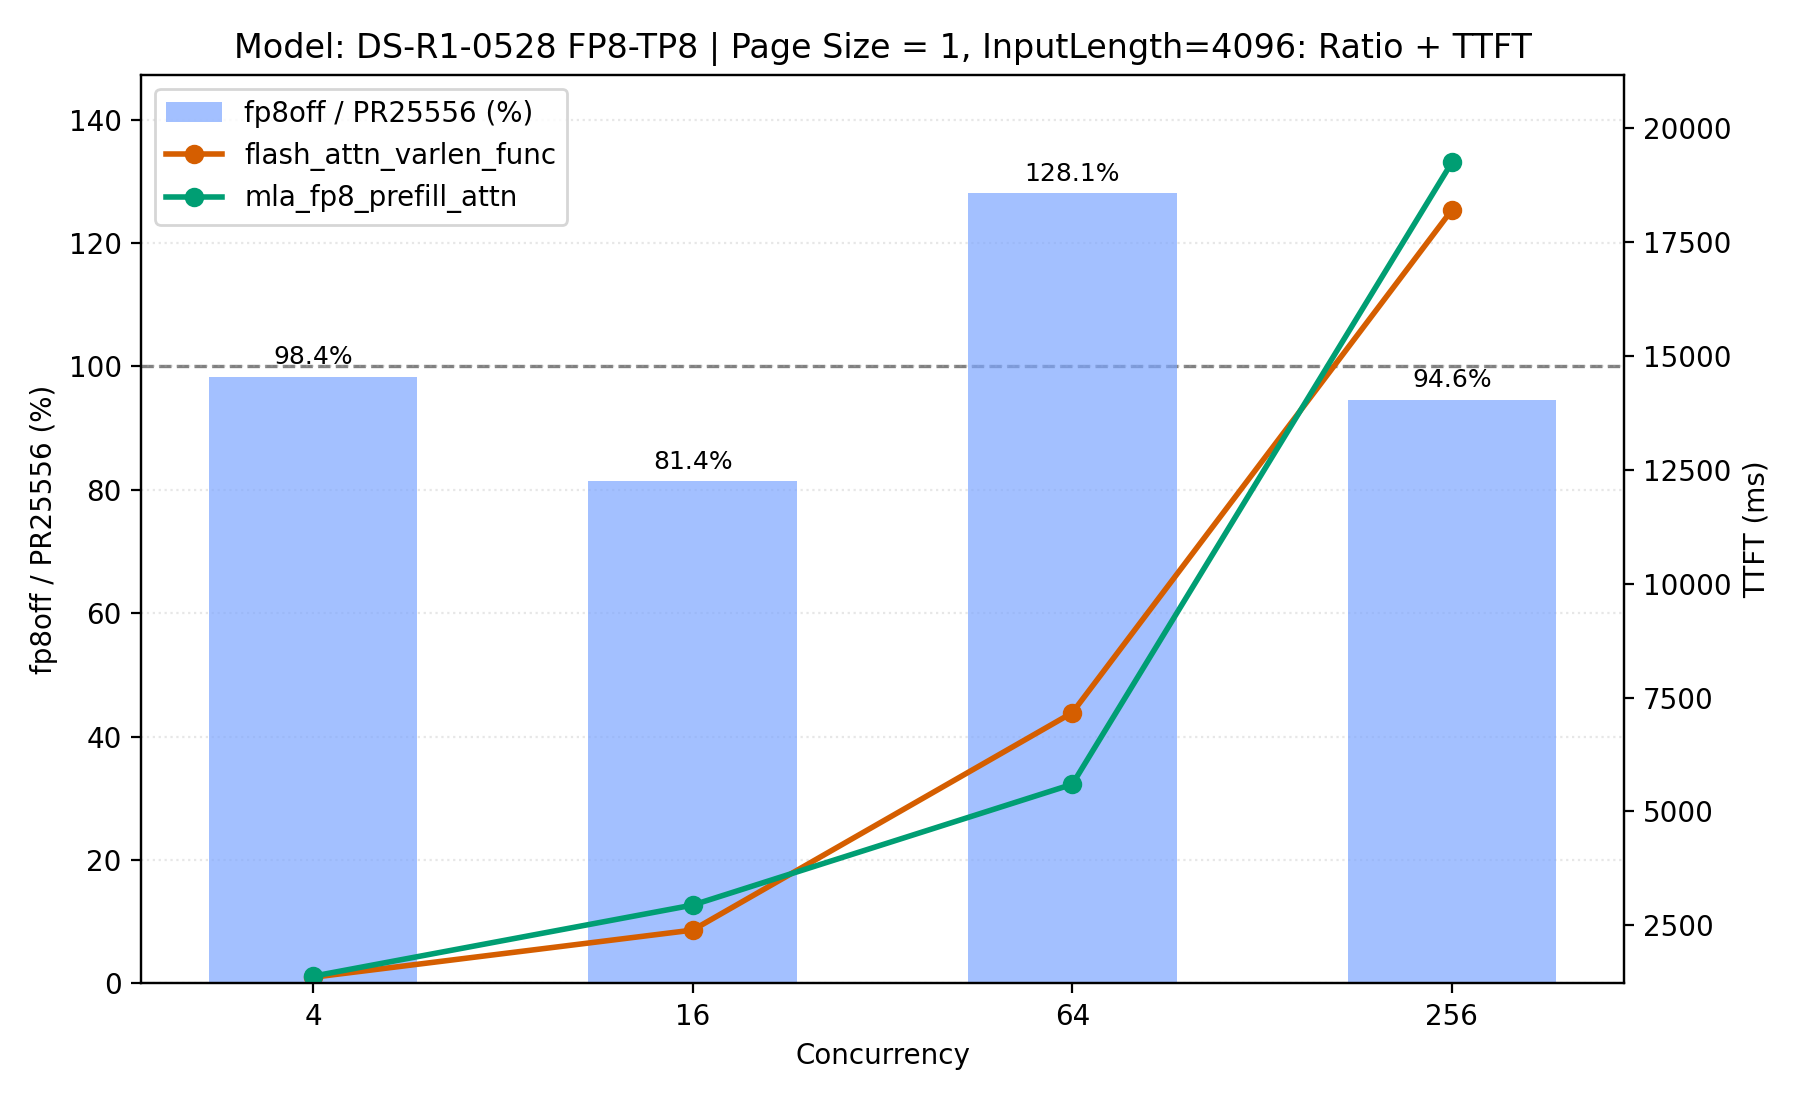
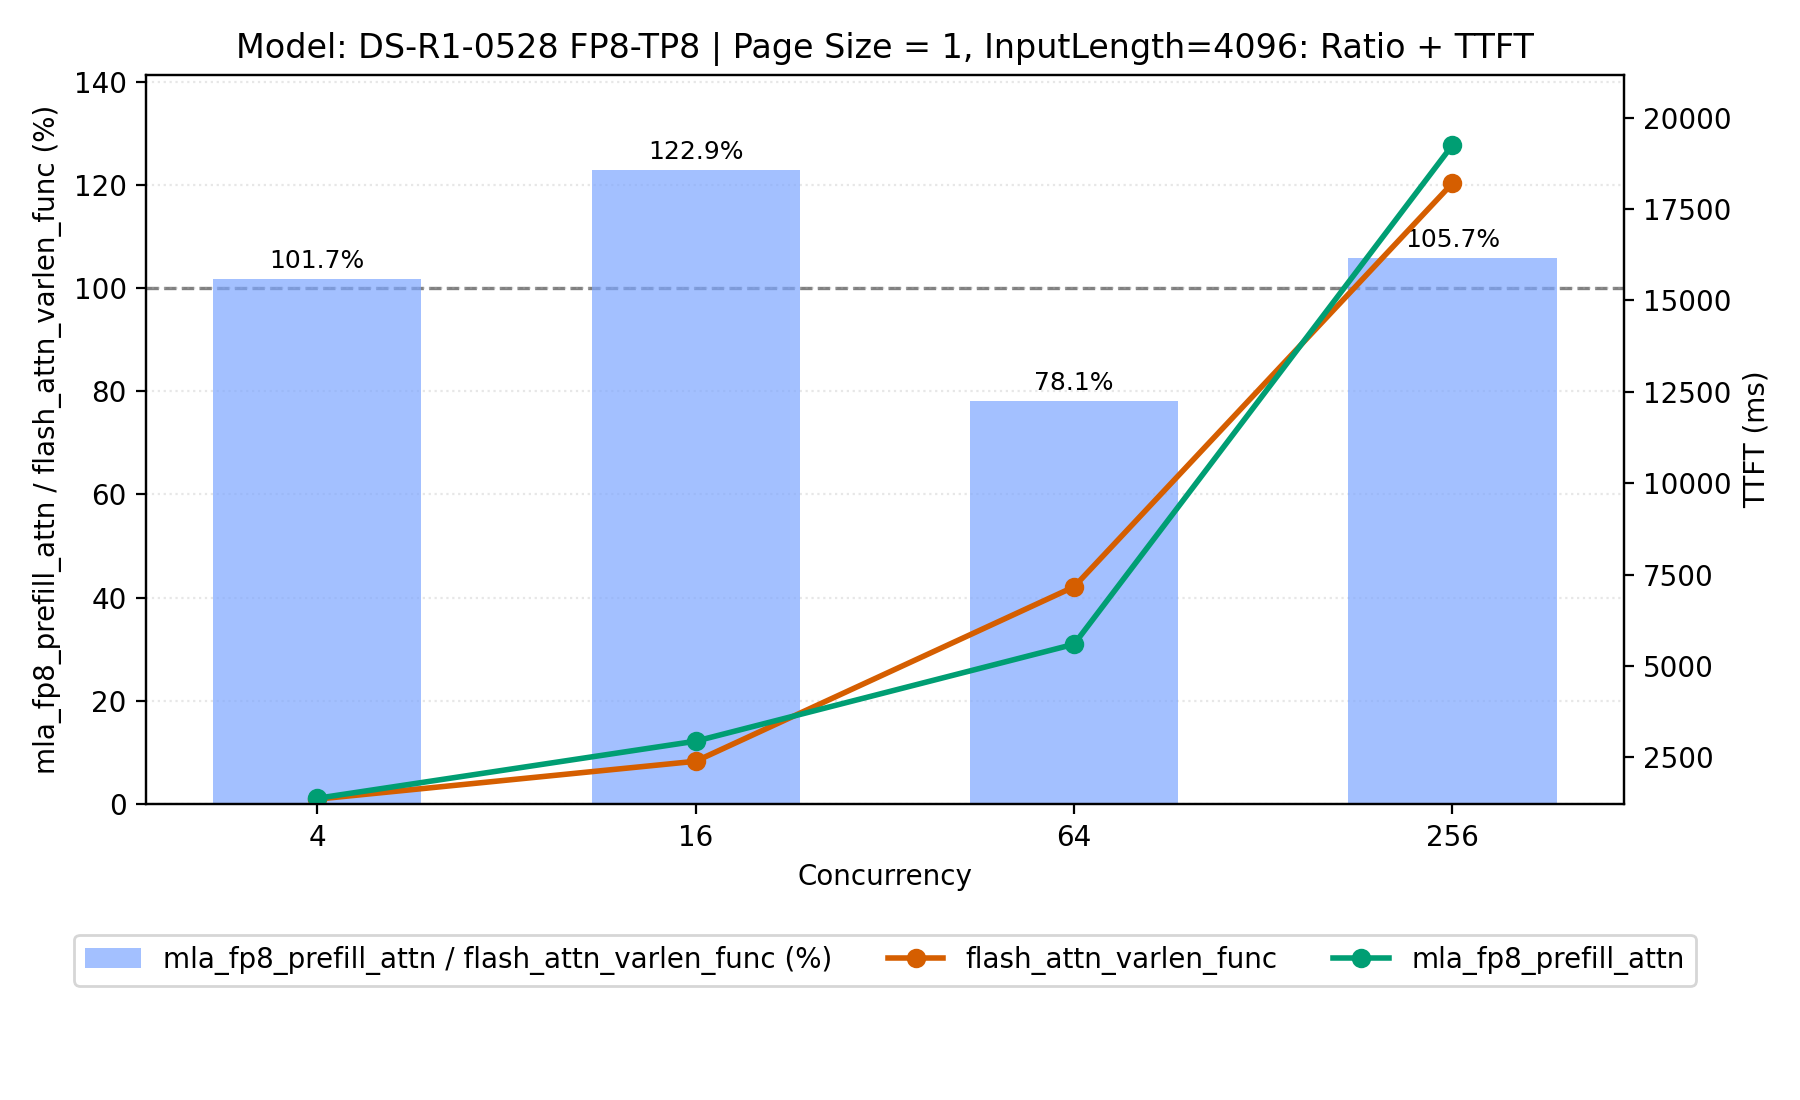
PrefillKernel: align TTFT ratio plot labels.

diff --git a/PrefillKernel/plot_ttft_ratio_dual_axis.py b/PrefillKernel/plot_ttft_ratio_dual_axis.py
@@ -9,6 +9,7 @@ import numpy as np
 
 ROOT = Path("/home/jacchang/SGLang-benchmarks/PrefillKernel")
 DATA_ROOT = Path("/home/jacchang/plots/pagesize_pr25556_matrix_20260521_025634")
+INPUT_LEN = 4096
 CONCS = [4, 16, 64, 256]
 CASES = {
     "page1_fp8off": {"page_size": 1, "method": "SGLANG_AITER_FP8_PREFILL_ATTN=0"},
@@ -22,7 +23,7 @@ def load_ttft_data():
     rows = []
     for case, meta in CASES.items():
         for c in CONCS:
-            p = DATA_ROOT / case / f"bench_in4096_out1_conc{c}.jsonl"
+            p = DATA_ROOT / case / f"bench_in{INPUT_LEN}_out1_conc{c}.jsonl"
             with p.open() as f:
                 obj = json.loads(f.readline())
             rows.append(
@@ -56,8 +57,7 @@ def build_series(rows, page_size):
     pr = {r["concurrency"]: r["mean_ttft_ms"] for r in rows if r["page_size"] == page_size and r["method"] == "PR25556"}
     base = np.array([fp8[c] for c in CONCS], dtype=float)
     pr_vals = np.array([pr[c] for c in CONCS], dtype=float)
-    # TTFT lower is better, so use fp8off/PR to make >100% mean PR is better.
-    ratio_pct = (base / pr_vals) * 100.0
+    ratio_pct = (pr_vals / base) * 100.0
     return base, pr_vals, ratio_pct
 
 
@@ -71,12 +71,12 @@ def plot_one(page_size, base, pr_vals, ratio_pct):
         width=0.55,
         color="#7DA6FF",
         alpha=0.7,
-        label="fp8off / PR25556 (%)",
+        label="mla_fp8_prefill_attn / flash_attn_varlen_func (%)",
         zorder=2,
     )
     ax1.axhline(100.0, color="gray", linestyle="--", linewidth=1.2, zorder=1)
-    ax1.set_ylabel("fp8off / PR25556 (%)")
-    ax1.set_ylim(0, max(130, float(np.max(ratio_pct) * 1.15)))
+    ax1.set_ylabel("mla_fp8_prefill_attn / flash_attn_varlen_func (%)")
+    ax1.set_ylim(0, max(120, float(np.max(ratio_pct) * 1.15)))
     ax1.set_xticks(x)
     ax1.set_xticklabels([str(c) for c in CONCS])
     ax1.set_xlabel("Concurrency")
@@ -106,12 +106,18 @@ def plot_one(page_size, base, pr_vals, ratio_pct):
 
     ax1.set_title(
         f"Model: DS-R1-0528 FP8-TP8 | "
-        f"Page Size = {page_size}, InputLength=4096: Ratio + TTFT"
+        f"Page Size = {page_size}, InputLength={INPUT_LEN}: Ratio + TTFT"
     )
 
     h1, l1 = ax1.get_legend_handles_labels()
     h2, l2 = ax2.get_legend_handles_labels()
-    ax1.legend(h1 + h2, l1 + l2, loc="upper left")
+    ax1.legend(
+        h1 + h2,
+        l1 + l2,
+        loc="upper center",
+        bbox_to_anchor=(0.5, -0.16),
+        ncol=3,
+    )
 
     for b, r in zip(bars, ratio_pct):
         ax1.text(
@@ -123,7 +129,7 @@ def plot_one(page_size, base, pr_vals, ratio_pct):
             fontsize=9,
         )
 
-    fig.tight_layout()
+    fig.tight_layout(rect=(0, 0.06, 1, 1))
     out = ROOT / f"page{page_size}_ratio_ttft.png"
     fig.savefig(out, dpi=200)
     plt.close(fig)
